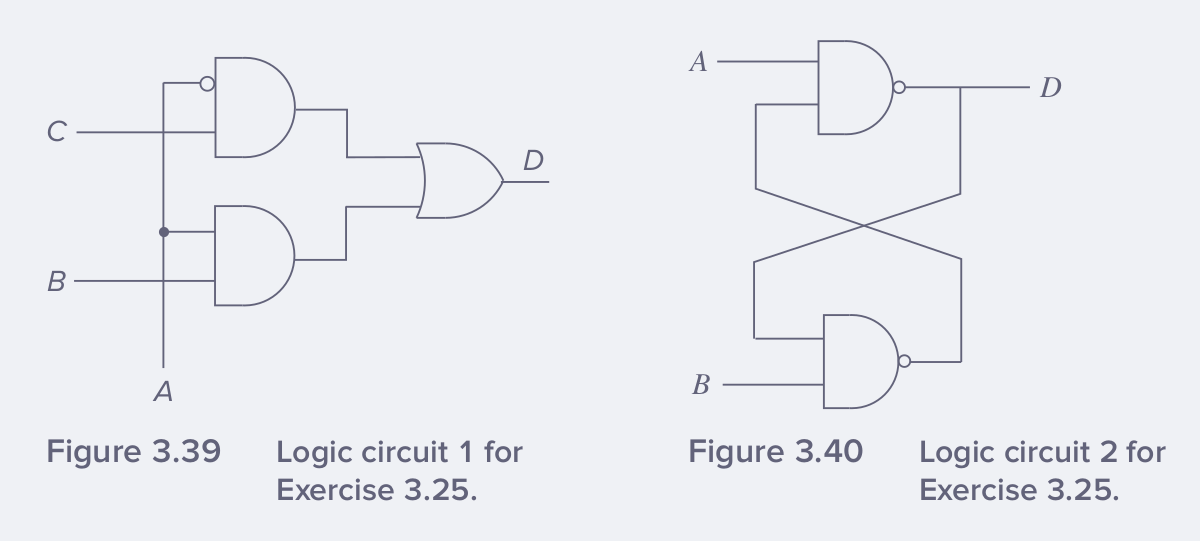
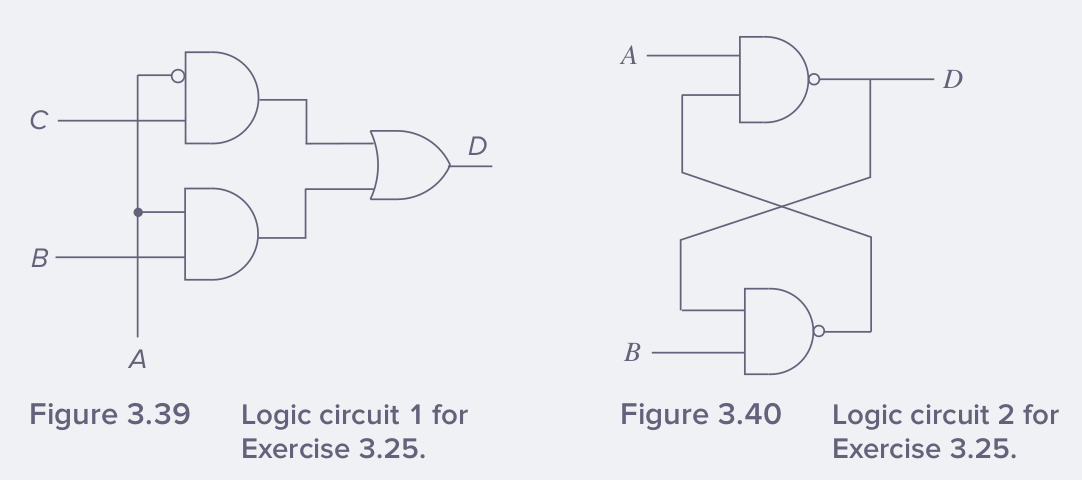
Chapter 2 odd-number solutions at 30%

diff --git a/content/learning/computing-systems/03-digital-logic-structures.md b/content/learning/computing-systems/03-digital-logic-structures.md
@@ -17,9 +17,9 @@ $$
 
 ---
 
-- 3.3 A two-input AND and a two-input OR are both examples of two-input logic functions. How many diﬀerent two-input logic functions are possible?
+- 3.3 A two-input AND and a two-input OR are both examples of two-input logic functions. How many different two-input logic functions are possible?
 
-*Ans.-*
+*Ans.-* Using combinatorics, the number of logic functions match the number of unique output-bit combinations (4 per gate in our case) so with 2 gates (two-input AND & OR) the number of possible logic functions is $2^4=16$
 
 ---
 
@@ -27,19 +27,19 @@ $$
 
 <img src="../../assets/learning/computing-systems/ch03-ex05.png" width="50%">
 
-*Ans.-* 
+*Ans.-* We can quickly fill some outputs considering that if voltage on C's P-type gate is 1 then the circuit above OUT is open so 0. Also if the N-types A and B are supplied with voltage 1 our circuit is grounded
 $$
 \begin{array}{ccc|c}
 A & B & C & \text{OUT} \\
 \hline
-0 & 0 & 0 &  \\
-0 & 0 & 1 &  \\
-0 & 1 & 0 &  \\
-0 & 1 & 1 &  \\
-0 & 0 & 0 &  \\
-1 & 0 & 1 &  \\
-1 & 1 & 0 &  \\
-1 & 1 & 1 &  \\
+0 & 0 & 0 & 1 \\
+0 & 0 & 1 & 0 \\
+0 & 1 & 0 & 1 \\
+0 & 1 & 1 & 0 \\
+1 & 0 & 0 & 1 \\
+1 & 0 & 1 & 0 \\
+1 & 1 & 0 & 0 \\
+1 & 1 & 1 & 0 
 \end{array}
 $$
 
@@ -49,7 +49,17 @@ $$
 
 <img src="../../assets/learning/computing-systems/ch03-ex07.png" width="35%">
 
-*Ans.-*
+*Ans.-* The circuit breaks the complementary rule ie. two parallel P-type transistors must be connected to their N-type transistors in series and vice versa. This causes that for opposing $A,B$ input states we get a *short circuit* and has a useless undetermined $V_{\text{OUT}}$ voltage as we can see in the truth table.
+$$
+\begin{array}{cc|c}
+A & B & \text{OUT} \\
+\hline
+0 & 0 & 1 \\
+0 & 1 & 0< V_{\text{OUT}}< V_{DD} \\
+1 & 0 & 0< V_{\text{OUT}}< V_{DD} \\
+1 & 1 & 0
+\end{array}
+$$
 
 ---
 
@@ -57,7 +67,7 @@ $$
 
 <img src="../../assets/learning/computing-systems/ch03-ex09.png" width="50%">
 
-*Ans.-* 
+*Ans.-* When $A=0$ the circuit is inactive but when $A=1$ we have short circuit on the left causing $V_{\text{OUT}}$ to be undetermined.
 
 ---
 
@@ -68,7 +78,7 @@ $$
 What is the value of Out when $A = 0$?
 What is the value of Out when $A = 1$?
 
-*Ans.-*
+*Ans.-* The student did a critical mistake. An inverter consists of a PMOS and NMOS connected in series not in parllel. In this circuit when $A=0\rightarrow V_{\text{OUT}}\approx V_{DD}=3.3 V$ but when $A=1$ we have a short circuit. 
 
 ---
 
@@ -78,21 +88,21 @@ What is the value of Out when $A = 1$?
 
 What does the value 0 or 1 for OUT signify?
 
-*Ans.-*
+> [!bug] Problem belongs to Chapter 5 (see Errata)
 
 ---
 
 - 3.15 Fill in the truth table for the logical expression `NOT(NOT(A) OR NOT(B))`. What single logic gate has the same truth table?
 
-*Ans.-*
+*Ans.-* Its equivalent to the AND logical gate.
 $$
 \begin{array}{cc|c}
 A & B & \text{NOT(NOT(A) OR NOT(B))} \\
 \hline
-0 & 0 &  \\
-0 & 1 &  \\
-1 & 0 &  \\
-1 & 1 &  \\
+0 & 0 & 0 \\
+0 & 1 & 0 \\
+1 & 0 & 0 \\
+1 & 1 & 1 \\
 \end{array}
 $$
 
@@ -109,51 +119,88 @@ $$
 \end{align*}
 $$
 
-*Ans.-*
+*Ans.-* 
+
+- a. 
+
+<img src="../../assets/learning/computing-systems/ch03-ex17a-sol.png" width="60%">
+
+- b.
+
+<img src="../../assets/learning/computing-systems/ch03-ex17b-sol.png" width="100%">
+
 
 ---
 
 - 3.19 How many output lines will a ﬁve-input decoder have?
 
-*Ans.-*
+*Ans.-* $2^5=32$ outputs.
 
 ---
 
 - 3.21 If $A$ and $B$ are four-bit unsigned binary numbers, `0111` and `1011`, complete the table obtained when using a two-bit full adder from Figure 3.15 to calculate each bit of the sum, $S$, of $A$ and $B$. Check your answer by adding the decimal value of $A$ and $B$ and comparing the sum with $S$. Are the answers the same? Why or why not?
 
-*Ans.-*
+*Ans.-* We will get an overflow because we're adding `7 + 11 = 18` which is out of range for a 4-bit number $[0,15]$. The overflow will be taken into account in the carry out of the MSB (*most significant bit*) ie. leftmost $C_{\text{out}}=1$ value in our table.
 $$
 \begin{array}{lcccc}
-C_{\text{in}} &   &   &   & 0 \\
+C_{\text{in}} & 1 & 1 & 1 & 0 \\
 \hline
 A & 0 & 1 & 1 & 1 \\
 B & 1 & 0 & 1 & 1 \\
-S &   &   &   &   \\
-C_{\text{out}} &   &   &   &   \\
+S & 0 & 0 & 1 & 0 \\
+C_{\text{out}} & 1 & 1 & 1 & 1 \\
 \end{array}
 $$
 
 ---
 
 - 3.23 
-    - a. Given four inputs $A, B, C$, and $D$ and one output $Z$, create a truth table for a circuit with at least seven input combinations generating 1s at the output. (How many rows will this truth table have?)
+    - a. Given four inputs $A, B, C$, and $D$ and one output $Z$, create a truth table for a circuit with at least seven input combinations generating `1`s at the output. (How many rows will this truth table have?)
     - b. Now that you have a truth table, generate the gate-level logic circuit
 that implements this truth table. Use the implementation algorithm
 referred to in Section 3.3.4.
 
+*Ans.-*  Our truth table will have $2^4=16$ rows and for the gate-level circuit implementation we can choose any logic operation eg. NAND has plenty more than seven input combinations that yield `1` as the output.
+
+- a.
+$$
+\begin{array}{cccc|c}
+A & B & C & D & Z \\
+\hline
+0 & 0 & 0 & 0 & 1 \\
+0 & 0 & 0 & 1 & 1 \\
+0 & 0 & 1 & 0 & 1 \\
+0 & 0 & 1 & 1 & 1 \\
+0 & 1 & 0 & 0 & 1 \\
+0 & 1 & 1 & 1 & 1 \\
+0 & 1 & 1 & 0 & 1 \\
+0 & 1 & 0 & 1 & 1 \\
+1 & 0 & 1 & 0 & 1 \\
+1 & 0 & 1 & 1 & 1 \\
+1 & 0 & 0 & 0 & 1 \\
+1 & 0 & 1 & 1 & 1 \\
+1 & 1 & 1 & 0 & 1 \\
+1 & 1 & 0 & 1 & 1 \\
+1 & 1 & 1 & 0 & 1 \\
+1 & 1 & 1 & 1 & 0 \\
+\end{array}
+$$
+
+- b. Our big NAND circuit is shown below
+
+<img src="../../assets/learning/computing-systems/ch03-ex23b-sol.png" width="80%">
+
+---
+
+- 3.26 Logic circuit 1 in Figure 3.39 has inputs $A, B, C$. Logic circuit 2 in Figure 3.40 has inputs $A$ and $B$. Both logic circuits have an output $D$. There is a fundamental difference between the behavioral characteristics of these two circuits. What is it? Hint: What happens when the voltage at input A goes from 0 to 1 in both circuits?
+
+<img src="../../assets/learning/computing-systems/ch03-ex25.png" width="60%">
+
 *Ans.-*
 
 ---
 
-- 3.25 Logic circuit 1 in Figure 3.39 has inputs $A, B, C$. Logic circuit 2 in Figure 3.40 has inputs $A$ and $B$. Both logic circuits have an output $D$. There is a fundamental diﬀerence between the behavioral characteristics of these two circuits. What is it? Hint: What happens when the voltage at input A goes from 0 to 1 in both circuits?
-
-<img src="../../assets/learning/computing-systems/ch03-ex25.png" width="50%">
-
-*Ans.-*
-
----
-
-- 3.27 You know a byte is eight bits. We call a four-bit quantity a nibble. If a byte-addressable memory has a 14-bit address, how many nibbles of storage are in this memory?
+- 3.27 You know a byte is eight bits. We call a four-bit quantity a nibble. If a byte-addressable memory has a 15-bit address, how many nibbles of storage are in this memory?
 
 *Ans.-*
 
@@ -161,7 +208,7 @@ referred to in Section 3.3.4.
 
 - 3.29 Given the logic circuit in Figure 3.41, ﬁll in the truth table for the output value $Z$.
 
-<img src="../../assets/learning/computing-systems/ch03-ex29.png" width="50%">
+<img src="../../assets/learning/computing-systems/ch03-ex29.png" width="60%">
 
 *Ans.-*
 
@@ -274,7 +321,7 @@ $$
 
 ---
 
-- 3.51 We have learned that we can write one bit of information with a logic circuit called a transparent latch and that the bit written is available to be read almost immediately after being written. Sometimes it is useful to be able to store a bit but not be able to read the value of that bit until the next cycle. An example of a logic circuit . that has this property is a `___`.
+- 3.51 We have learned that we can write one bit of information with a logic circuit called a transparent latch and that the bit written is available to be read almost immediately after being written. Sometimes it is useful to be able to store a bit but not be able to read the value of that bit until the next cycle. An example of a logic circuit that has this property is a $\text{\_\_\_\_\_\_}$.
 
 *Ans.-*
 
@@ -415,3 +462,4 @@ S1 & S0 & X & Z & S1' & S0' \\
 $$
 
 --- 
+

diff --git a/content/learning/computing-systems/02-bits-datatypes-operations.md b/content/learning/computing-systems/02-bits-datatypes-operations.md
@@ -527,7 +527,7 @@ $$
 > 
 > where
 > - $S$ needs one bit for the sign 
-> - $\texttt{fraction}$ takes 23 unisgned bits for precision
+> - $\texttt{fraction}\text{ or }\texttt{mantissa}$ takes 23 unisgned bits for precision
 > - $\texttt{exponent}$ takes 8 unsigned bits for the range (excluding `0 = 0000 0000` and `255 = 1111 1111` which are reserved for *subnormal numbers* and $\pm$infinity $(-1)^S \infty$, respectively)
 > 
 > The largest and smallest number that can be represented in normalized form are:
